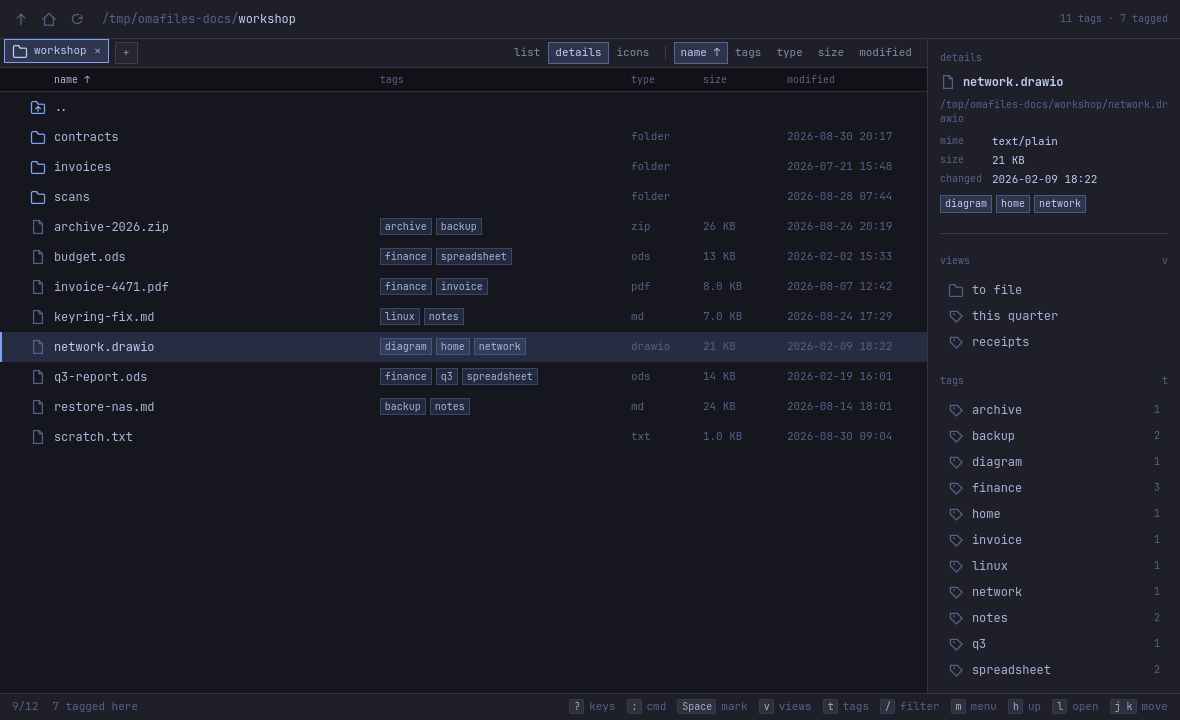
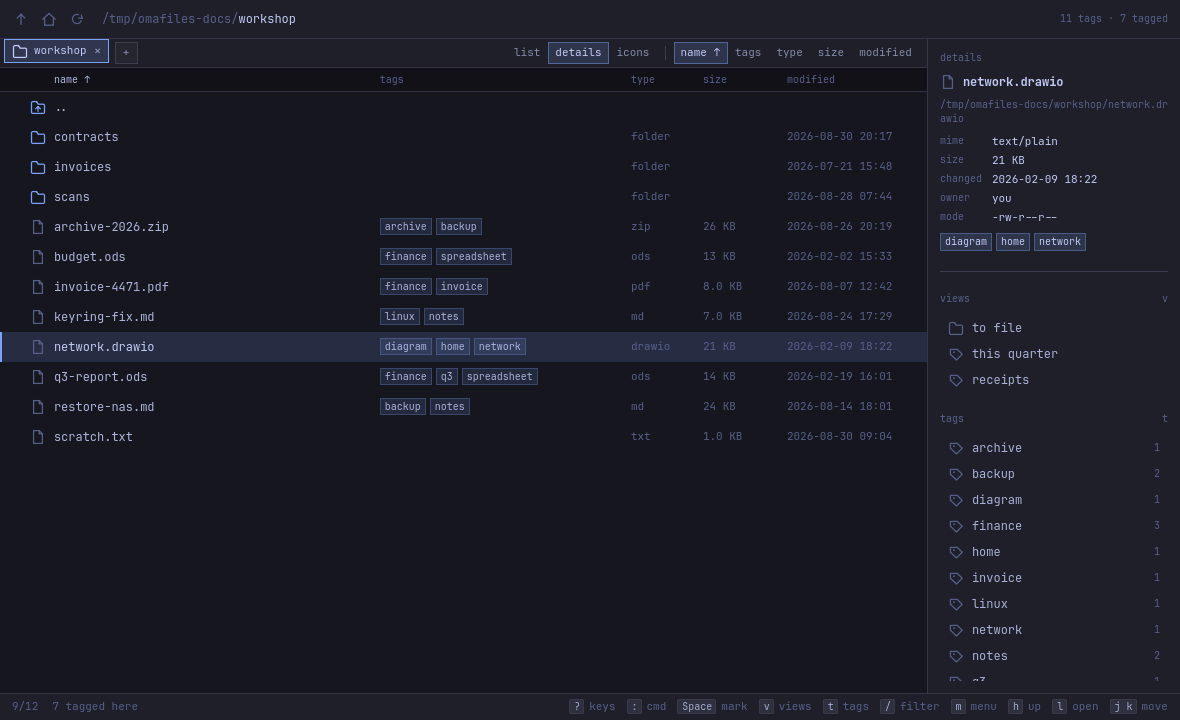
feat(studio): owner and mode in the details panel
Owner and mode beside size and date, one stat for the focused row like the
count already there. Yours reads `you`, and only somebody else's names the
user and the group: the question the line answers is whether it is yours,
and it keeps the documentation pictures the same on every machine.

Changed region(s): [[0.7932, 0.3972, 0.8847, 0.9472], [0.7932, 0.2444, 0.9458, 0.3667]]

diff --git a/src/studio/qml/Details.qml b/src/studio/qml/Details.qml
@@ -120,6 +120,32 @@ Item {
                 font.pixelSize: 11
             }
 
+            // The two facts a permissions dialog exists for, read here
+            // instead: whose it is, and what they and everyone else may do.
+            // Yours is `you`, and only somebody else's names the user and
+            // the group -- the question the line answers is whether it is
+            // yours, and a name you would have to recognise as your own is
+            // a slower way of saying so.
+            Label { quiet: true; text: "owner"; visible: ownerValue.visible }
+            Label {
+                id: ownerValue
+                width: body.width - 58
+                visible: details.has && details.entry.owner !== ""
+                text: !details.has ? ""
+                    : details.entry.mine ? "you"
+                    : details.entry.owner + " · " + details.entry.group
+                font.pixelSize: 11
+            }
+
+            Label { quiet: true; text: "mode"; visible: modeValue.visible }
+            Label {
+                id: modeValue
+                width: body.width - 58
+                visible: details.has && details.entry.mode !== ""
+                text: details.has ? details.entry.mode : ""
+                font.pixelSize: 11
+            }
+
             Label { quiet: true; text: "marked"; visible: markValue.visible }
             Label {
                 id: markValue

diff --git a/src/studio/FolderModel.cpp b/src/studio/FolderModel.cpp
@@ -9,6 +9,7 @@
 
 #include <QDateTime>
 #include <QDir>
+#include <QFile>
 #include <QFileInfo>
 #include <QLocale>
 #include <QMap>
@@ -17,6 +18,8 @@
 #include <QRegularExpression>
 #include <QSet>
 #include <algorithm>
+
+#include <unistd.h>
 
 namespace omafiles {
 namespace {
@@ -633,11 +636,31 @@ QVariantMap FolderModel::entryAt(int row) const
                 {QStringLiteral("sizeText"), QString()},
                 {QStringLiteral("mtime"), 0},
                 {QStringLiteral("mtimeText"), QString()},
+                {QStringLiteral("owner"), QString()},
+                {QStringLiteral("group"), QString()},
+                {QStringLiteral("mine"), false},
+                {QStringLiteral("mode"), QString()},
                 {QStringLiteral("marked"), false},
                 {QStringLiteral("tagged"), false},
                 {QStringLiteral("tags"), QStringList()}};
     }
     const bool directory = entry.kind != QLatin1String("file");
+
+    // Who it belongs to and what they may do with it, spelled the way `ls -l`
+    // spells it, which is the spelling everyone who wants this already reads.
+    // One stat, for the focused row only, like the count below.
+    const QFileInfo info(entry.path);
+    const QFile::Permissions may = info.permissions();
+    const auto letter = [&](QFile::Permission bit, char yes) {
+        return QLatin1Char(may.testFlag(bit) ? yes : '-');
+    };
+    const QString mode = QString(info.isSymLink() ? QLatin1Char('l')
+                                 : directory ? QLatin1Char('d') : QLatin1Char('-'))
+        + letter(QFile::ReadOwner, 'r') + letter(QFile::WriteOwner, 'w')
+        + letter(QFile::ExeOwner, 'x') + letter(QFile::ReadGroup, 'r')
+        + letter(QFile::WriteGroup, 'w') + letter(QFile::ExeGroup, 'x')
+        + letter(QFile::ReadOther, 'r') + letter(QFile::WriteOther, 'w')
+        + letter(QFile::ExeOther, 'x');
 
     // MatchDefault, not MatchExtension: this runs for the focused row only, so
     // it can afford to look inside the file when the name does not say. By
@@ -677,6 +700,10 @@ QVariantMap FolderModel::entryAt(int row) const
             {QStringLiteral("sizeText"), entry.sizeText},
             {QStringLiteral("mtime"), entry.mtime},
             {QStringLiteral("mtimeText"), entry.mtimeText},
+            {QStringLiteral("owner"), info.owner()},
+            {QStringLiteral("group"), info.group()},
+            {QStringLiteral("mine"), info.ownerId() == getuid()},
+            {QStringLiteral("mode"), mode},
             {QStringLiteral("marked"), m_tab && m_tab->isMarked(entry.path)},
             {QStringLiteral("tagged"), entry.tagged},
             {QStringLiteral("tags"), entry.tags.isEmpty()

diff --git a/tests/tst_studio.cpp b/tests/tst_studio.cpp
@@ -35,6 +35,7 @@
 #include <QQuickItem>
 #include <QQuickWindow>
 #include <QLockFile>
+#include <QRegularExpression>
 #include <QPainter>
 #include <QScopeGuard>
 #include <QSignalSpy>
@@ -44,6 +45,7 @@
 
 #include <cstdio>
 #include <fcntl.h>
+#include <pwd.h>
 #include <sys/stat.h>
 #include <unistd.h>
 
@@ -882,10 +884,25 @@ void TestStudio::readsOutTheRowUnderTheCursor()
     QCOMPARE(entry.value(QStringLiteral("tags")).toStringList(),
              QStringList{QStringLiteral("notes")});
 
+    // Whose it is and what they may do, the way `ls -l` spells it. The owner
+    // is whoever wrote the fixture, which is whoever is running this.
+    const passwd *me = getpwuid(getuid());
+    QVERIFY(me);
+    QCOMPARE(entry.value(QStringLiteral("owner")).toString(),
+             QString::fromLocal8Bit(me->pw_name));
+    QCOMPARE(entry.value(QStringLiteral("mine")).toBool(), true);
+    QVERIFY(!entry.value(QStringLiteral("group")).toString().isEmpty());
+    const QString mode = entry.value(QStringLiteral("mode")).toString();
+    QVERIFY2(QRegularExpression(QStringLiteral("^-[rwx-]{9}$")).match(mode).hasMatch(),
+             qPrintable(mode));
+    QVERIFY2(mode.startsWith(QStringLiteral("-rw")), qPrintable(mode));
+
     // A folder row reports itself as one rather than as a file of size zero.
     focusRow(QStringLiteral("alpha"));
     QCOMPARE(filesRoot()->property("entry").toMap()
                  .value(QStringLiteral("directory")).toBool(), true);
+    QVERIFY(filesRoot()->property("entry").toMap()
+                .value(QStringLiteral("mode")).toString().startsWith(QLatin1Char('d')));
 
     // Marking the row reads out straight away. Nothing here moves the cursor,
     // so nothing else would re-read the row, and the panel went on saying the
